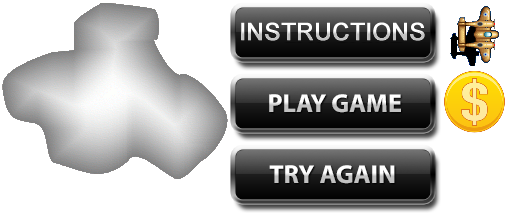
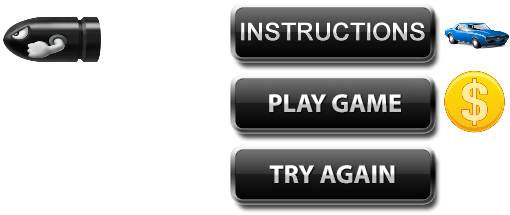
Road change success, coins fall changing

Changed region(s): [[0.0, 0.0, 0.4706, 0.8372], [0.8529, 0.0279, 1.0, 0.307]]

diff --git a/mailPilot-v11/Scripts/objects/ocean.ts b/mailPilot-v11/Scripts/objects/ocean.ts
@@ -7,29 +7,29 @@ module objects {
         game: createjs.Container;
         width: number;
         height: number;
-        dy: number;
+        dx: number;
         constructor(stage: createjs.Stage, game: createjs.Container) {
             this.stage = stage;
             this.game = game;
             this.image = new createjs.Bitmap(managers.Assets.loader.getResult("ocean"));
-            this.width = this.image.getBounds().width;
-            this.height = this.image.getBounds().height;
+            this.width = this.image.getBounds().height;
+            this.height = this.image.getBounds().width;
             this.reset();
 
-            this.dy = 5;
+            this.dx = -5;
 
             game.addChild(this.image);
         }
 
         update() {
-            this.image.y += this.dy;
-            if (this.image.y >= 0) {
+            this.image.x += this.dx;
+            if (this.image.x < -800) {
                 this.reset();
             }
         }
 
         reset() {
-            this.image.y = -960;
+            this.image.x = 0;
         }
 
         destroy() {

diff --git a/mailPilot-v11/Scripts/objects/ocean.js b/mailPilot-v11/Scripts/objects/ocean.js
@@ -7,23 +7,23 @@ var objects;
             this.stage = stage;
             this.game = game;
             this.image = new createjs.Bitmap(managers.Assets.loader.getResult("ocean"));
-            this.width = this.image.getBounds().width;
-            this.height = this.image.getBounds().height;
+            this.width = this.image.getBounds().height;
+            this.height = this.image.getBounds().width;
             this.reset();
 
-            this.dy = 5;
+            this.dx = -5;
 
             game.addChild(this.image);
         }
         Ocean.prototype.update = function () {
-            this.image.y += this.dy;
-            if (this.image.y >= 0) {
+            this.image.x += this.dx;
+            if (this.image.x < -800) {
                 this.reset();
             }
         };
 
         Ocean.prototype.reset = function () {
-            this.image.y = -960;
+            this.image.x = 0;
         };
 
         Ocean.prototype.destroy = function () {

diff --git a/mailPilot-v11/Scripts/managers/asset.js b/mailPilot-v11/Scripts/managers/asset.js
@@ -3,7 +3,7 @@
     // Image and Sound Manifest;
     var assetManifest = [
         { id: "loading", src: "assets/images/loading.jpg" },
-        { id: "ocean", src: "assets/images/ocean.gif" },
+        { id: "ocean", src: "assets/images/Road.png" },
         { id: "engine", src: "assets/sounds/engine.ogg" },
         { id: "thunder", src: "assets/sounds/thunder.ogg" },
         { id: "yay", src: "assets/sounds/yay.ogg" }
@@ -11,9 +11,9 @@
 
     // SpriteSheet Data Object
     var spriteSheetData = {
-        "images": ["assets/images/atlas.png"],
+        "images": ["assets/images/icons.png"],
         "frames": [
-            [2, 2, 226, 178],
+            [2, 2, 100, 75],
             [230, 2, 211, 69],
             [443, 69, 62, 63],
             [443, 2, 65, 65],

diff --git a/mailPilot-v11/Scripts/managers/asset.ts b/mailPilot-v11/Scripts/managers/asset.ts
@@ -2,7 +2,7 @@
     // Image and Sound Manifest;
     var assetManifest = [
         { id: "loading", src: "assets/images/loading.jpg" },
-        { id: "ocean", src: "assets/images/ocean.gif" },
+        { id: "ocean", src: "assets/images/Road.png" },
         { id: "engine", src: "assets/sounds/engine.ogg" },
         { id: "thunder", src: "assets/sounds/thunder.ogg" },
         { id: "yay", src: "assets/sounds/yay.ogg" }
@@ -12,7 +12,7 @@
     var spriteSheetData = {
         "images": ["assets/images/icons.png"],
         "frames": [
-            [2, 2, 226, 178],
+            [2, 2, 100, 75],
             [230, 2, 211, 69],
             [443, 69, 62, 63],
             [443, 2, 65, 65],

diff --git a/mailPilot-v11/Scripts/states/instructions.ts b/mailPilot-v11/Scripts/states/instructions.ts
@@ -40,7 +40,7 @@ module states {
         game.addChild(gameInstractionLabel);
         gameInstractionLabel = new objects.Label(stage.canvas.width / 2, 190, "Move mouse operate your");
         game.addChild(gameInstractionLabel);
-        gameInstractionLabel = new objects.Label(stage.canvas.width / 2, 250, "avatar. Avoid pitfalls.");
+        gameInstractionLabel = new objects.Label(stage.canvas.width / 2, 250, "avatar. Avoid bullets.");
         game.addChild(gameInstractionLabel);
         gameInstractionLabel = new objects.Label(stage.canvas.width / 2, 310, "And try to get more coins.");
         game.addChild(gameInstractionLabel);
